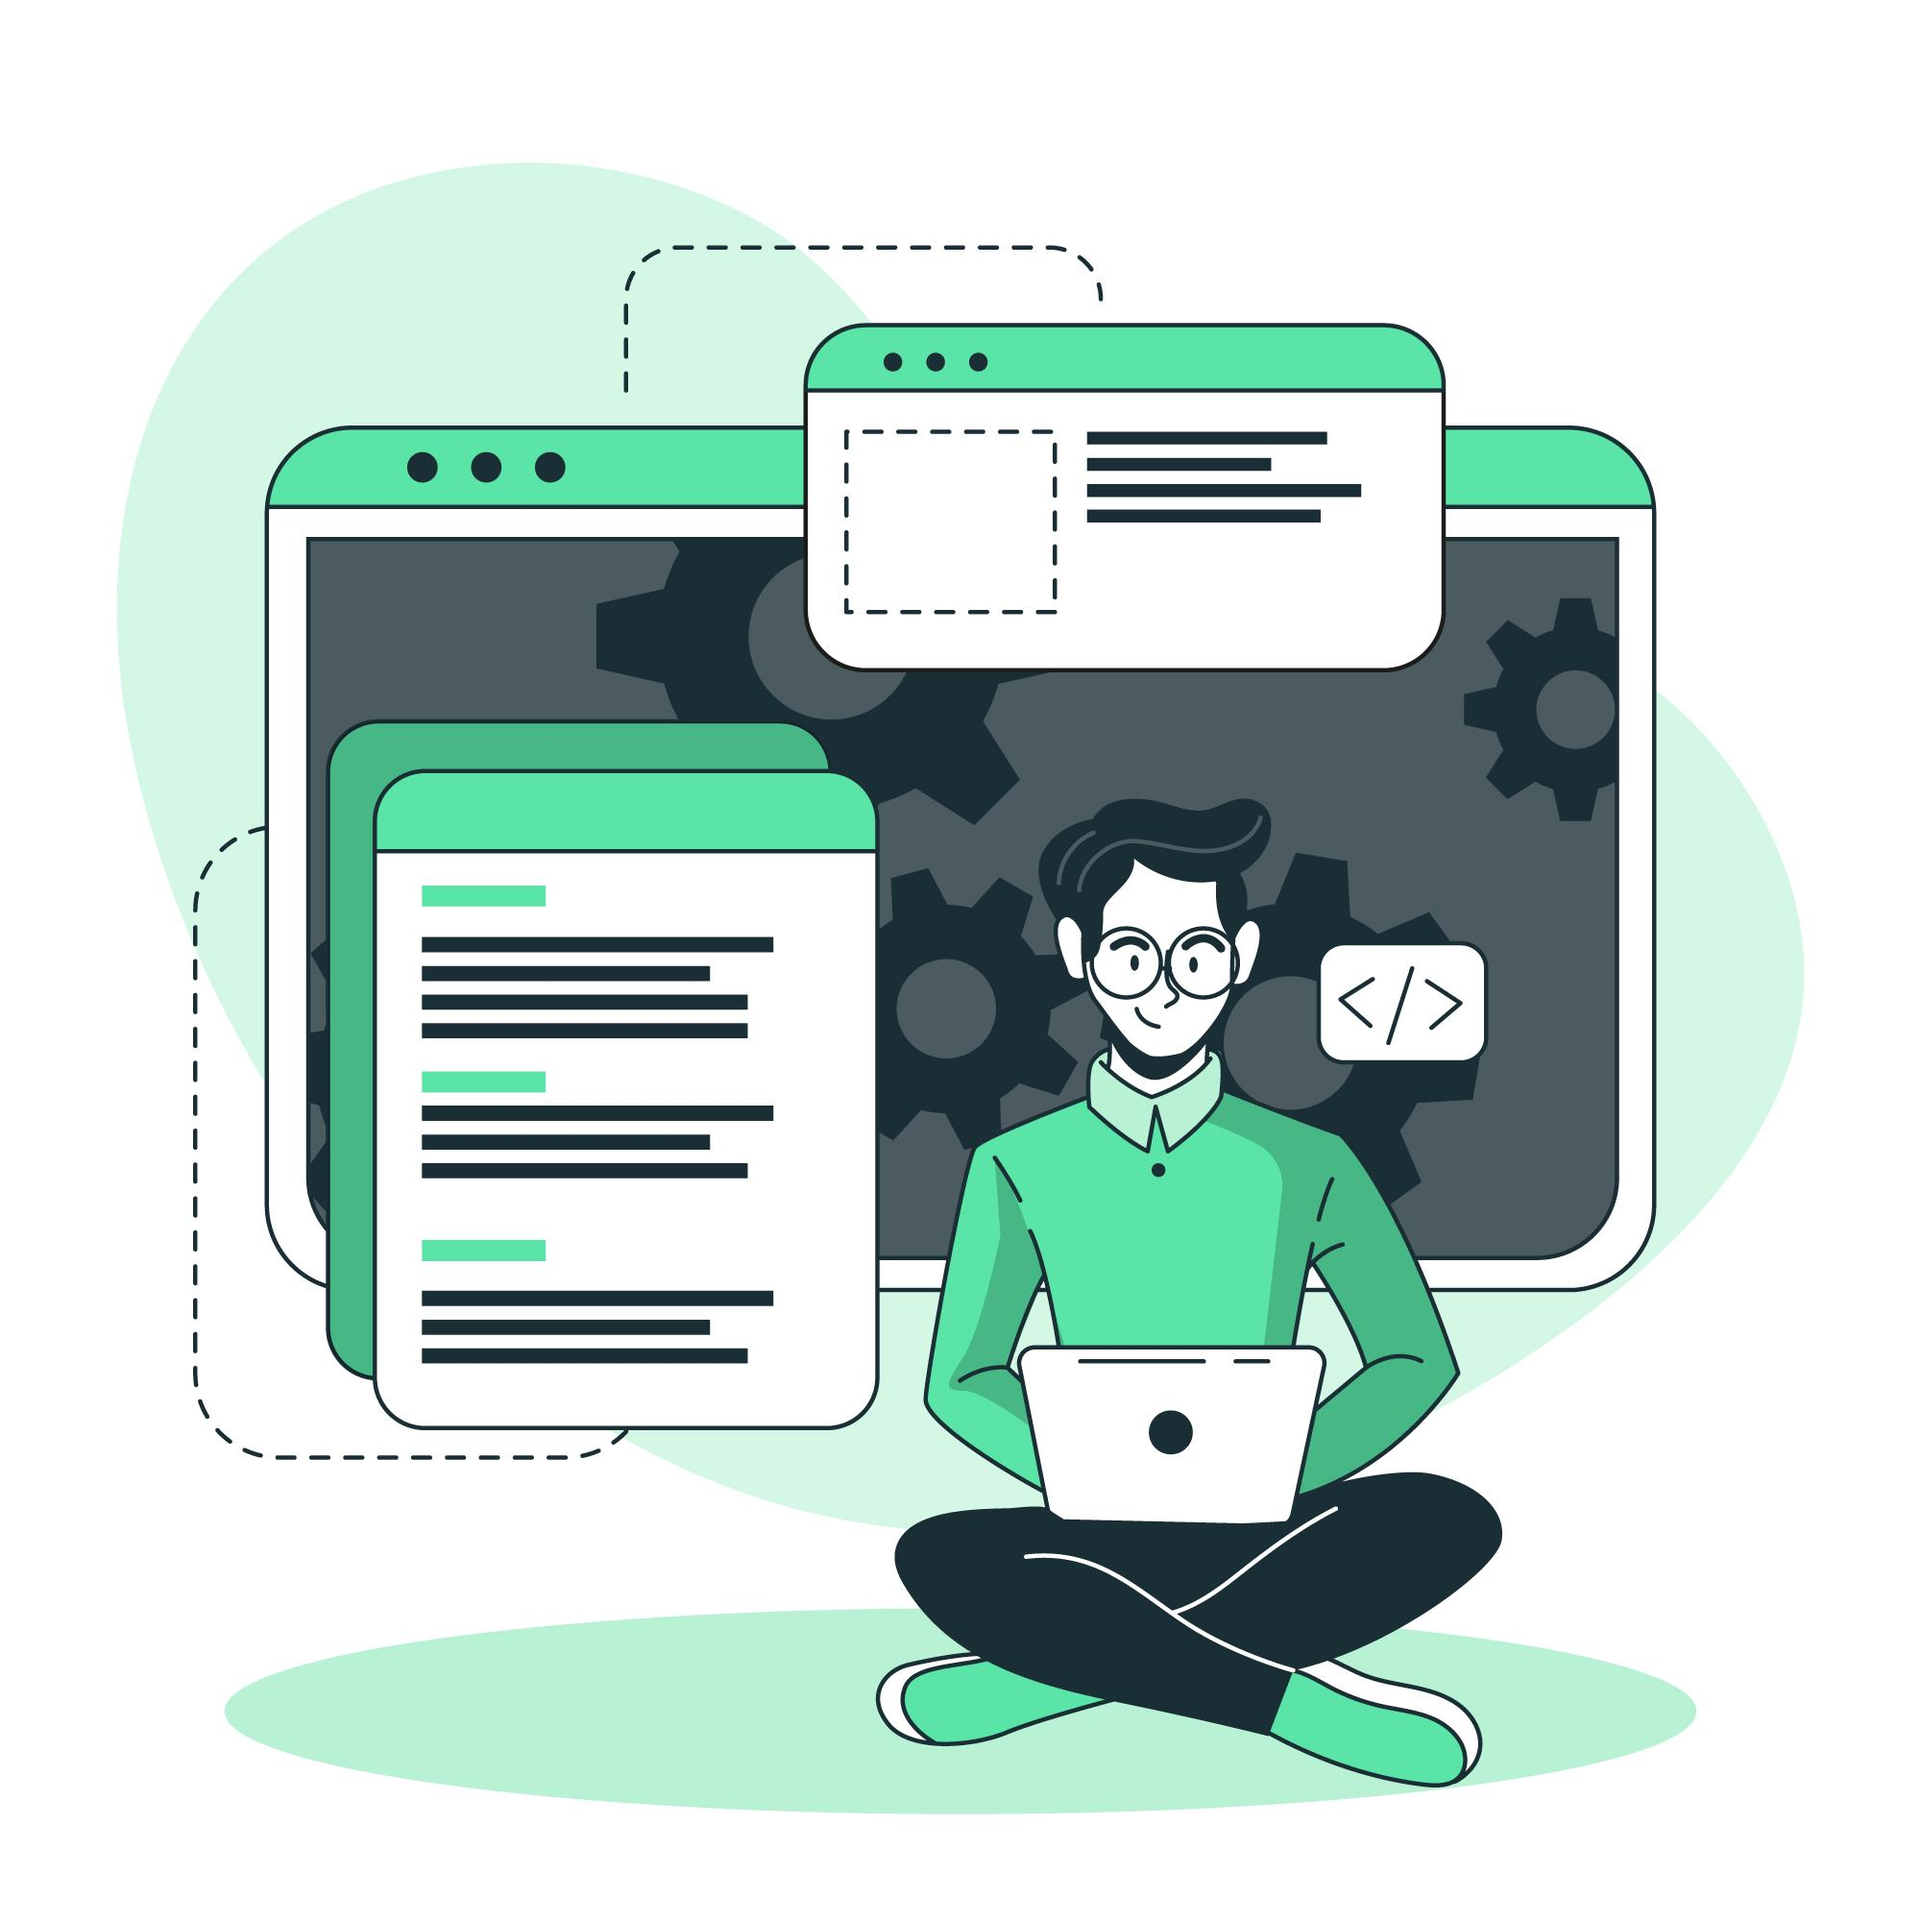
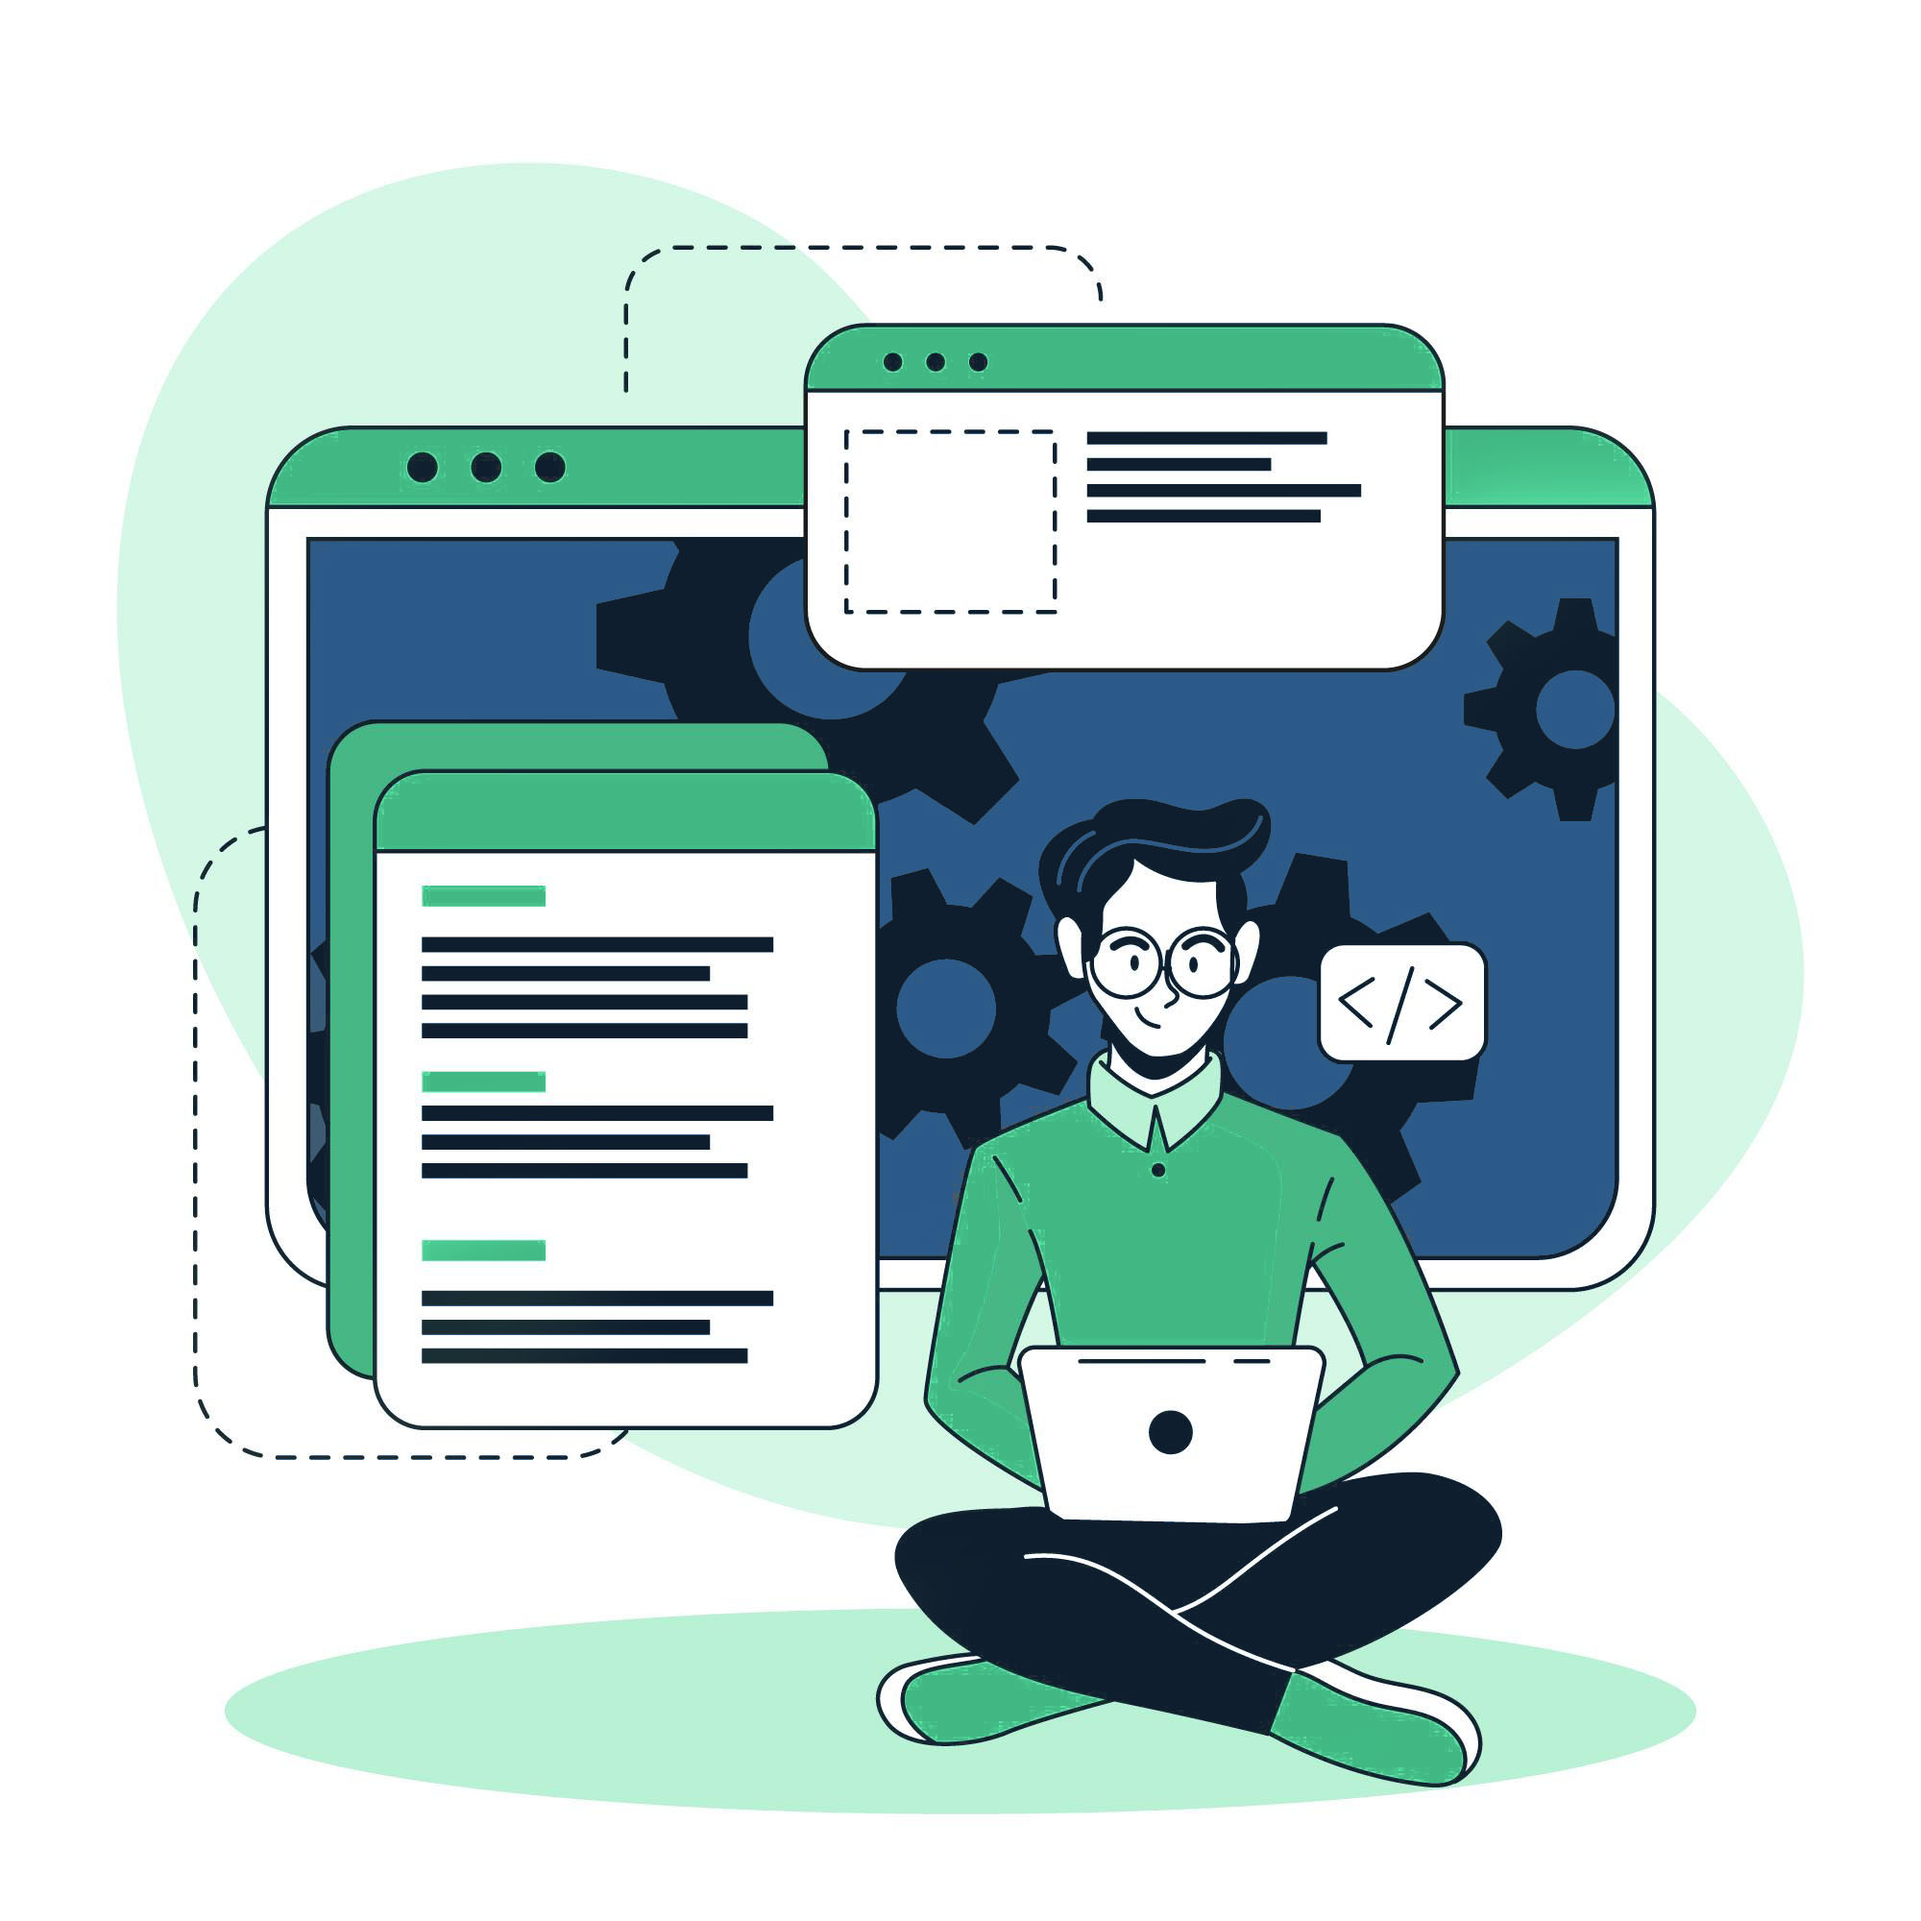
added colours and improved text size

diff --git a/src/data/skills.js b/src/data/skills.js
@@ -7,42 +7,42 @@ const skills = [
       {
         id: 1,
         title: "Vue.js",
-        css: "java",
+        css: "vuejs",
       },
       {
         id: 2,
         title: "React.js",
-        css: "groovy",
+        css: "react",
       },
       {
         id: 3,
         title: "Nuxt.js",
-        css: "solr",
+        css: "nuxt",
       },
       {
         id: 4,
         title: "Javascript",
-        css: "spring",
+        css: "js",
       },
       {
         id: 5,
         title: "Typescript",
-        css: "docker",
+        css: "typescript",
       },
       {
         id: 6,
         title: "Bootstrap",
-        css: "docker",
+        css: "bootstrap",
       },
       {
         id: 7,
         title: "TailwindCSS",
-        css: "docker",
+        css: "tailwind",
       },
       {
         id: 8,
-        title: "SaaS",
-        css: "docker",
+        title: "Sass",
+        css: "sass",
       },
     ],
     description:
@@ -56,22 +56,22 @@ const skills = [
       {
         id: 1,
         title: "Express.js",
-        css: "js",
+        css: "express",
       },
       {
         id: 2,
         title: "MongoDb",
-        css: "vuejs",
+        css: "mongodb",
       },
       {
         id: 3,
         title: "Django",
-        css: "bootstrap",
+        css: "typescript",
       },
       {
         id: 4,
         title: "MySQL",
-        css: "bulma",
+        css: "mysql",
       },
     ],
     description:
@@ -85,42 +85,42 @@ const skills = [
       {
         id: 1,
         title: "Docker",
-        css: "tensorflow",
+        css: "docker",
       },
       {
         id: 2,
         title: "Go",
-        css: "pytorch",
+        css: "go",
       },
       {
         id: 3,
         title: "Python",
-        css: "opencv",
+        css: "py",
       },
       {
         id: 4,
         title: "C++",
-        css: "opencv",
+        css: "docker",
       },
       {
         id: 5,
         title: "Arduino",
-        css: "opencv",
+        css: "arduino",
       },
       {
         id: 6,
         title: "Figma",
-        css: "opencv",
+        css: "figma",
       },
       {
         id: 7,
         title: "Photoshop",
-        css: "opencv",
+        css: "typescript",
       },
       {
         id: 8,
         title: "Adobe XD",
-        css: "opencv",
+        css: "xd",
       },
     ],
     description:

diff --git a/src/components/skills/SingleSkill.vue b/src/components/skills/SingleSkill.vue
@@ -88,69 +88,68 @@ span:hover {
   color: #fff;
   background-color: #4fc08d;
 }
-
-.bulma:hover {
+.react:hover {
   color: #fff;
-  background-color: #00d1b2;
+  background-color: #61dbfb;
 }
-
 .bootstrap:hover {
   color: #fff;
   background-color: #7952b3;
 }
-
 .typescript:hover {
   color: #fff;
   background-color: #3178c6;
 }
-
-.java:hover {
+.nuxt:hover {
   color: #fff;
-  background-color: #007396;
+  background-color: #41b883;
 }
-
-.groovy:hover {
+.tailwind:hover {
   color: #fff;
-  background-color: #4298b8;
+  background-color: #52b3d0;
 }
-
-.solr:hover {
+.sass:hover {
   color: #fff;
-  background-color: #d9411e;
+  background-color: #b91678;
 }
-
-.spring:hover {
+.express:hover {
+  color: #fff;
+  background-color: #303030;
+}
+.mongodb:hover {
   color: #fff;
   background-color: #6db33f;
 }
-
-.kotlin:hover {
+.mysql:hover {
   color: #fff;
-  background-color: #0095d5;
+  background-color: #00add8;
 }
-
+.go:hover {
+  color: #fff;
+  background-color: #29beb0;
+}
 .docker:hover {
   color: #fff;
   background-color: #2496ed;
 }
-
-.tensorflow:hover {
+.py:hover {
   color: #fff;
-  background-color: #ff6f00;
+  background-color: #306998;
 }
-
-.pytorch:hover {
+.arduino:hover {
   color: #fff;
-  background-color: #ee4c2c;
+  background-color: #73c9ef;
 }
-
-.opencv:hover {
+.figma:hover {
   color: #fff;
-  background-color: #5c3ee8;
+  background-color: #995cf6;
 }
-
+.xd:hover {
+  color: #fff;
+  background-color: #400835;
+}
 .js:hover {
-  color: #000;
-  background-color: #f7df1e;
+  color: #fff;
+  background-color: #746a1e;
 }
 </style>

diff --git a/src/assets/css/app.scss b/src/assets/css/app.scss
@@ -1,26 +1,25 @@
 $default-family: 'Open Sans', sans-serif;
-$default-font-size: 16px;
+$default-font-size: 14px;
 $primary: #2b5a8a;
 $secondary: #41b883;
 
-$vue-js: #4FC08D;
-$bulma: #00D1B2;
+$vuejs: #4FC08D;
+$react: #61DBFB;
 $bootstrap: #7952B3;
 $typescript: #3178C6;
-$java: #007396;
-// TODO: change color to actual groovy and solr colors
-$groovy: #4298B8;
-$solr: #D9411E;
-$hibernate: #59666C;
-$spring: #6DB33F;
-$golang: #00ADD8;
-$kotlin: #0095D5;
+$nuxt: #41b883;
+$tailwind: #52b3d0;
+$sass: #b91678;
+$express: #303030;
+$mongodb: #6DB33F;
+$mysql: #00ADD8;
+$go: #29beb0;
 $docker: #2496ED;
-$tensorflow: #FF6F00;
-$pytorch: #EE4C2C;
-$opencv: #5C3EE8;
+$py: #306998;
+$arduino: #73c9ef;
+$figma: #995cf6;
 $js: #F7DF1E;
-$dojo: #f02541;
+$xd: #400835;
 
 @import "bootstrap";
 @import url("https://fonts.googleapis.com/css2?family=Open+Sans:wght@300;400;500&display=swap");

diff --git a/src/views/HomeView.vue b/src/views/HomeView.vue
@@ -2,7 +2,7 @@
   <!-- Menu -->
   <MenuVue :links="links">soustab 👋 </MenuVue>
   <HeroSection id="hero" pic="header.jpg">
-    <template v-slot:welcome>Hello!</template>
+    <template v-slot:welcome><div style="color: #2b5a8a">Hello!</div></template>
     My name is <b>Soustab Haldar</b> and I'm a
     <hi-word>full-stack developer</hi-word>
     and <hi-word>UI-UX Developer</hi-word> My passion is building
@@ -113,5 +113,9 @@ export default {
 <style lang="scss" scoped>
 .prim {
   color: $primary;
+}
+
+.welcome-text {
+  color: $secondary;
 }
 </style>

diff --git a/src/components/shared/AppMenu.vue b/src/components/shared/AppMenu.vue
@@ -1,6 +1,6 @@
 <template>
   <nav
-    class="navbar navbar-expand-lg navbar-light bg-gray-900 fixed-top"
+    class="navbar navbar-expand-lg navbar-light bg-white fixed-top"
     id="main-nav"
   >
     <div class="container">

diff --git a/src/components/experience/SingleJob.vue b/src/components/experience/SingleJob.vue
@@ -24,4 +24,8 @@ export default {
   props: ["job"],
 };
 </script>
-<style></style>
+<style>
+.timeline-marker:before {
+  background: #41b883 !important;
+}
+</style>

diff --git a/src/components/experience/ExperienceTable.vue b/src/components/experience/ExperienceTable.vue
@@ -27,7 +27,7 @@ h3,
 h4,
 h5,
 h6 {
-  color: #3d4351;
+  color: #2b5a8a;
   margin-top: 0;
 }
 li {
